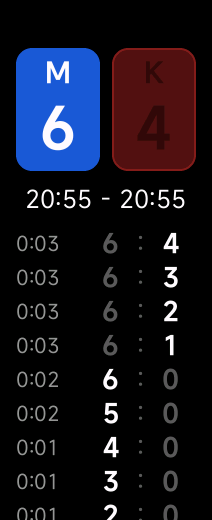
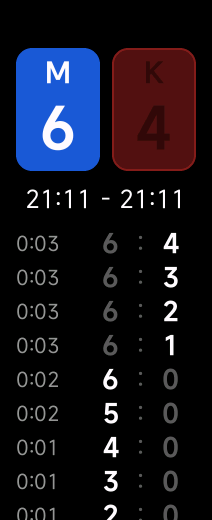
update screenshots

diff --git a/scripts/screenshots.js b/scripts/screenshots.js
@@ -29,6 +29,7 @@ const BG_B = [20, 330]
 const FINISH = [159, 260]
 const NEW_GAME = [151, 88]
 const FIRST_ROW = [106, 167] // первая строка списка на экране итога — текущая игра
+const SHARE = [61, 436] // кнопка QR под списком из пяти строк на экране итога
 
 // Плитки экранов выбора
 const colorCell = (row, col) => [36 + col * 70, 151 + row * 134] // цвет цифр: 3 столбца
@@ -207,6 +208,10 @@ async function main() {
     await shot('07-game-custom')
     await tap(FINISH)
     await shot('08-result-custom')
+
+    await tap(SHARE)
+    await shot('10-share')
+    await tap(SHARE) // тап по коду закрывает его
 
     await tap(FIRST_ROW)
     await shot('09-game-details')
